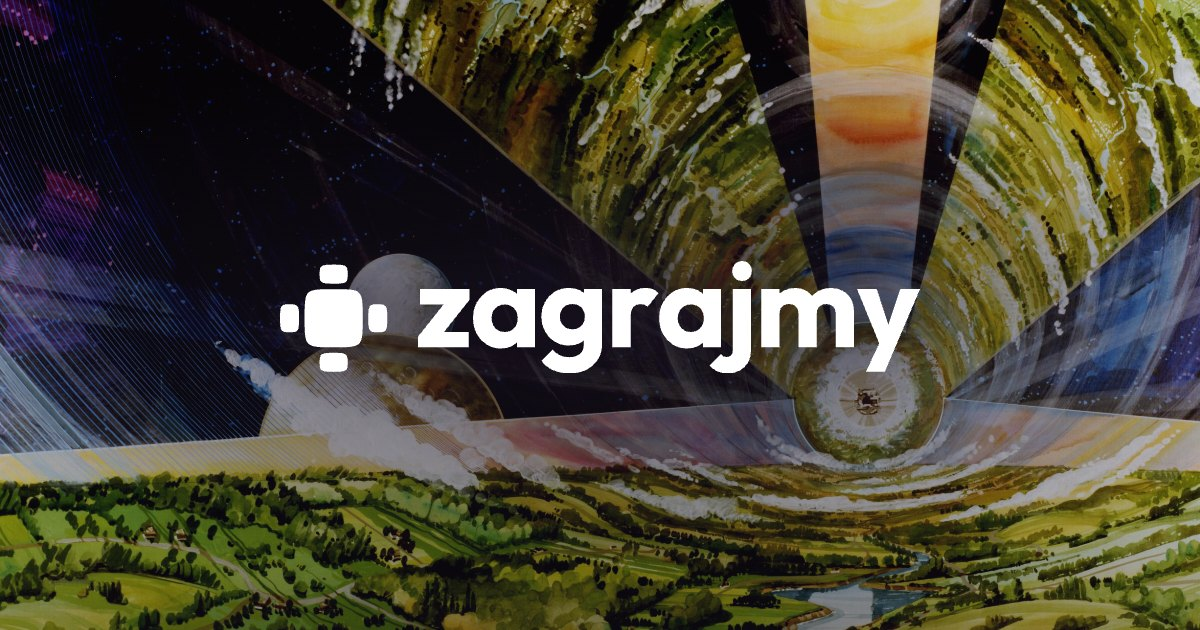
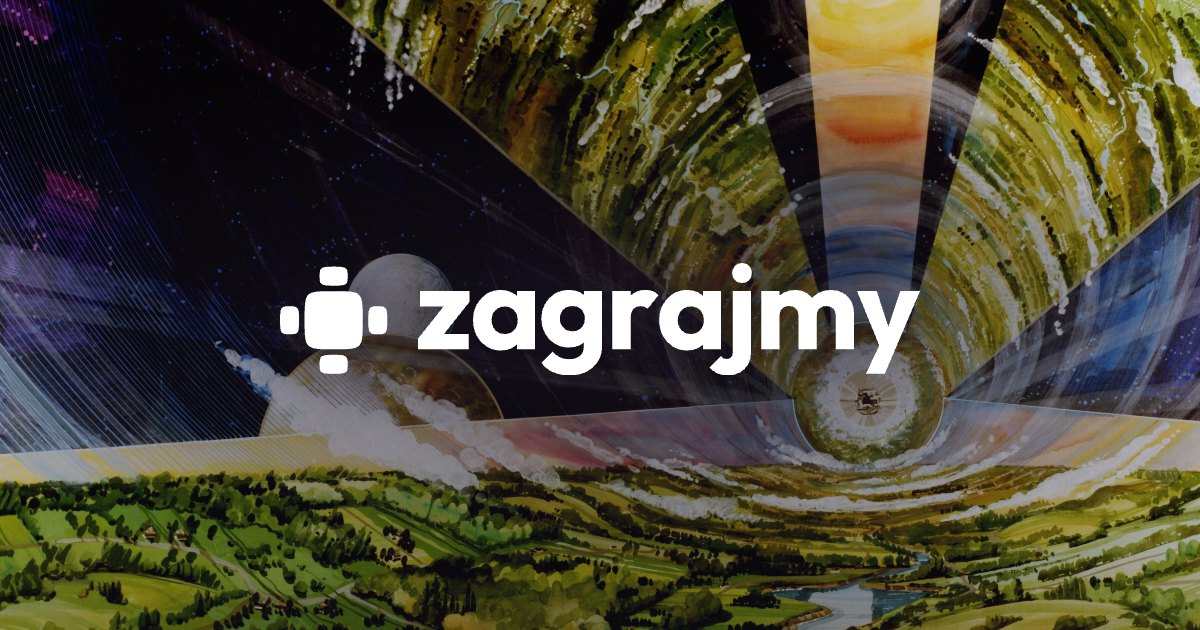
Make the lockup's downward nudge the 4px it asks for
padding-top on a centred box moves it half the distance: justify-content
splits the shrunken free space evenly and hands half the padding back, so
0.25rem read as 2px. Translate the lockup instead, which moves it the full
4px and says what it means.

diff --git a/src/ludamus/static/og-card/index.html b/src/ludamus/static/og-card/index.html
@@ -113,12 +113,15 @@
         align-items: center;
         justify-content: center;
         padding: 0 4.5rem;
-        padding-top: 0.25rem;
         color: #fff;
     }
 
-    /* The lockup ships as outlined paths, so it needs no webfont to be correct. */
+    /* The lockup ships as outlined paths, so it needs no webfont to be correct.
+     Nudged off dead centre because the painting's horizon sits above it, so
+     optical centre is a touch below geometric. Translated rather than padded:
+     padding on a centred box moves it half the distance you asked for. */
     .card__lockup {
+        translate: 0 0.25rem;
         width: 40rem;
         height: auto;
         display: block;
